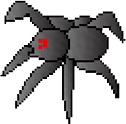
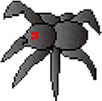
ajout des images

diff --git a/Jeu/Jeu Pac s Men/combat/perso.py b/Jeu/Jeu Pac s Men/combat/perso.py
@@ -641,8 +641,8 @@ class Rats(mobs):
         self.res=10
         self.vit=20
         self.nombre=4
-        self.img = pygame.image.load("data/perso.png").convert_alpha()
-        self.img_combat = pygame.image.load("data/perso.png").convert_alpha()
+        self.img = pygame.image.load("data/Ennemi/rat_carte.png").convert_alpha()
+        self.img_combat = pygame.image.load("data/Ennemi/rat_combat.png").convert_alpha()
         
 class Gobelins(mobs):
     def __init__(self):
@@ -656,8 +656,8 @@ class Gobelins(mobs):
         self.res=10
         self.vit=40
         self.nombre=4
-        self.img = pygame.image.load("data/perso.png").convert_alpha()
-        self.img_combat = pygame.image.load("data/perso.png").convert_alpha()
+        self.img = pygame.image.load("data/Ennemi/goblin_carte.png").convert_alpha()
+        self.img_combat = pygame.image.load("data/Ennemi/goblin_combat.png").convert_alpha()
                 
 class Aigles(mobs):
     def __init__(self):
@@ -671,8 +671,8 @@ class Aigles(mobs):
         self.res=0
         self.vit=100
         self.nombre=2
-        self.img = pygame.image.load("data/perso.png").convert_alpha()
-        self.img_combat = pygame.image.load("data/perso.png").convert_alpha()
+        self.img = pygame.image.load("data/Ennemi/aigle_carte.png").convert_alpha()
+        self.img_combat = pygame.image.load("data/Ennemi/aigle_combat.png").convert_alpha()
         
 class Slime(mobs):
     def __init__(self):
@@ -686,8 +686,8 @@ class Slime(mobs):
         self.res=20
         self.vit=40
         self.nombre=1
-        self.img = pygame.image.load("data/perso.png").convert_alpha()
-        self.img_combat = pygame.image.load("data/perso.png").convert_alpha()
+        self.img = pygame.image.load("data/Ennemi/slime_carte.png").convert_alpha()
+        self.img_combat = pygame.image.load("data/Ennemi/slime_combat.png").convert_alpha()
         
 class Centaures(mobs):
     def __init__(self):
@@ -716,8 +716,8 @@ class Loup_garou(mobs):
         self.res=15
         self.vit=70
         self.nombre=1
-        self.img = pygame.image.load("data/perso.png").convert_alpha()
-        self.img_combat = pygame.image.load("data/perso.png").convert_alpha()
+        self.img = pygame.image.load("data/Ennemi/loupgarou_carte.png").convert_alpha()
+        self.img_combat = pygame.image.load("data/Ennemi/loupgarou_combat.png").convert_alpha()
         
 class Araingnees(mobs):
     def __init__(self):
@@ -746,8 +746,8 @@ class Carapateur(mobs):
         self.res=25
         self.vit=10
         self.nombre=1
-        self.img = pygame.image.load("data/perso.png").convert_alpha()
-        self.img_combat = pygame.image.load("data/perso.png").convert_alpha()
+        self.img = pygame.image.load("data/Ennemi/carapateur_carte.png").convert_alpha()
+        self.img_combat = pygame.image.load("data/Ennemi/carapateur_combat.png").convert_alpha()
         
 class Golems(mobs):
     def __init__(self):
@@ -776,8 +776,8 @@ class Treant(mobs):
         self.res=25
         self.vit=10
         self.nombre=1
-        self.img = pygame.image.load("data/perso.png").convert_alpha()
-        self.img_combat = pygame.image.load("data/perso.png").convert_alpha()
+        self.img = pygame.image.load("data/Ennemi/treant_carte.png").convert_alpha()
+        self.img_combat = pygame.image.load("data/Ennemi/treant_combat.png").convert_alpha()
 
         
 class Geant(mobs):
